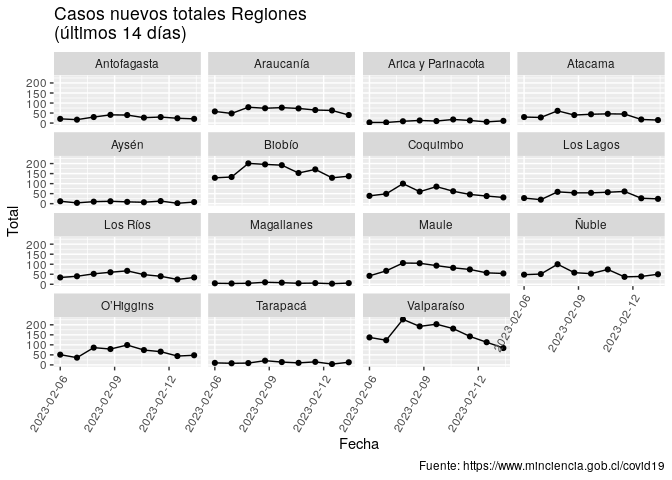
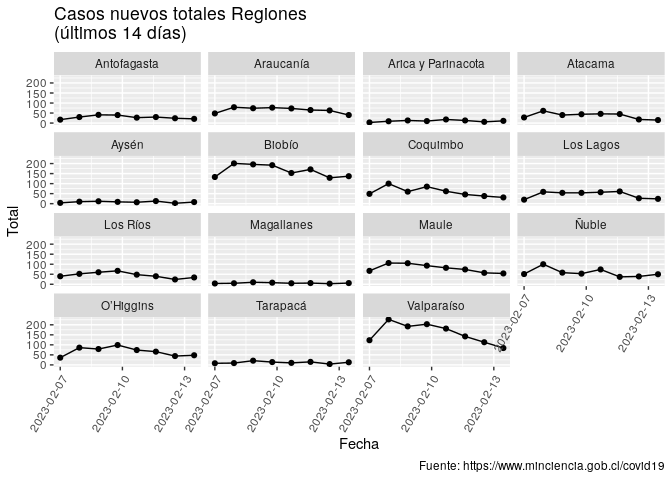
Re-build Rmarkdown files

diff --git a/README.md b/README.md
@@ -3,7 +3,7 @@
 
 Ejemplo de uso de total\_casos de COVID recopilados por el Ministerio de
 Ciencia de Chile <https://www.minciencia.gob.cl/covid19>. Última
-actualización: 2023-02-19
+actualización: 2023-02-20
 
 ## Visualización desde el comienzo de la pandemia
 
